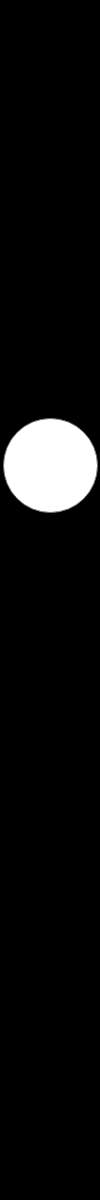
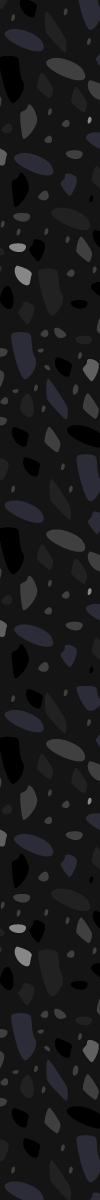
:construction: Change background
Change wall and backgrounds

diff --git a/scripts/main.js b/scripts/main.js
@@ -138,12 +138,12 @@ loader_bg.onComplete.add((loader) => {
     setSpritePosition(sprite_doors[2], 11720, 0)
     setSpritePosition(sprite_doors[3], 15660, 0)
     setSpritePosition(sprite_fg, 0, 89)
-    setSpritePosition(sprite_fg2, 3940, 109)
-    setSpritePosition(sprite_fg3, 7880, 89)
+    setSpritePosition(sprite_fg3, 3940, 109)
+    setSpritePosition(sprite_fg2, 7880, 89)
     setSpritePosition(sprite_fg4, 11820, 89)
     setSpritePosition(sprite_fg5, 15760, 89)
-    setSpritePosition(sprite_bg2, 3940, 0 )
-    setSpritePosition(sprite_bg3, 7880, 0)
+    setSpritePosition(sprite_bg3, 3940, 0 )
+    setSpritePosition(sprite_bg2, 7880, 0)
     setSpritePosition(sprite_bg4, 11820, 0)
     setSpritePosition(sprite_bg5, 15760, 0)
     setSpritePosition(sprite_char, 500, window.innerHeight - 10)
@@ -214,8 +214,8 @@ window.addEventListener('keyup', (event) =>
 function ScrollBg() {
     bg_x += bg_speed
     sprite_bg.position.x = bg_x
-    sprite_bg2.position.x = bg_x + 3940
-    sprite_bg3.position.x = bg_x + 7880
+    sprite_bg3.position.x = bg_x + 3940
+    sprite_bg2.position.x = bg_x + 7880
     sprite_bg4.position.x = bg_x + 11820
     sprite_bg5.position.x = bg_x + 15760
     sprite_doors[0].position.x = bg_x + loader_bg.resources.pl1_bg.texture.width
@@ -223,8 +223,8 @@ function ScrollBg() {
     sprite_doors[2].position.x = bg_x + 11720
     sprite_doors[3].position.x = bg_x + 15660
     sprite_fg.position.x = bg_x
-    sprite_fg2.position.x = bg_x + 3940 
-    sprite_fg3.position.x = bg_x + 7880 
+    sprite_fg3.position.x = bg_x + 3940 
+    sprite_fg2.position.x = bg_x + 7880 
     sprite_fg4.position.x = bg_x + 11820
     sprite_fg5.position.x = bg_x + 15760 
 
